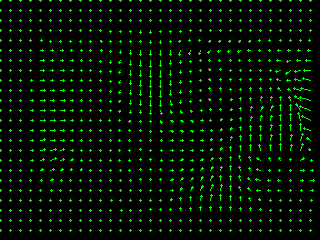
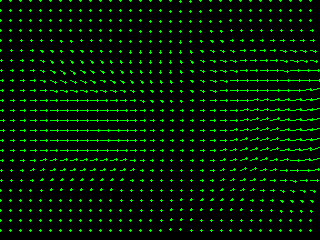
Part 1b complete

diff --git a/experiment.py b/experiment.py
@@ -143,33 +143,40 @@ def part_1b():
     # PART B1
     # =======
 
-    # gaussian_sigma = 5
-    # gaussian_ksize = (9, 9)
+    gaussian_sigma = 5
+    gaussian_ksize = (9, 9)
 
-    # s_shift_0 = cv2.GaussianBlur(shift_0, gaussian_ksize, gaussian_sigma)
-    # s_shift_r10 = cv2.GaussianBlur(shift_r10, gaussian_ksize, gaussian_sigma)
+    s_shift_0 = cv2.GaussianBlur(shift_0, gaussian_ksize, gaussian_sigma)
+    s_shift_r10 = cv2.GaussianBlur(shift_r10, gaussian_ksize, gaussian_sigma)
 
-    # k_size = 85
-    # k_type = 'gaussian'
-    # sigma = 30
-    # u, v = ps4.optic_flow_lk(s_shift_0, s_shift_r10, k_size, k_type, sigma)
+    k_size = 85
+    k_type = 'gaussian'
+    sigma = 30
+    u, v = ps4.optic_flow_lk(s_shift_0, s_shift_r10, k_size, k_type, sigma)
 
-    # u_v = quiver(u, v, scale=3, stride=10)
-    # cv2.imwrite(os.path.join(output_dir, "ps4-1-b-1.png"), u_v)
+    u_v = quiver(u, v, scale=3, stride=10)
+    cv2.imwrite(os.path.join(output_dir, "ps4-1-b-1.png"), u_v)
 
     # =======
     # PART B2
     # =======
 
-    gaussian_sigma = 5
-    gaussian_ksize = (35, 35)
+    gaussian_sigma = 15
+    gaussian_ksize = (27,27)
+    s_shift_0 = np.copy(shift_0)
+    s_shift_r20 = np.copy(shift_r20)
     s_shift_0 = cv2.GaussianBlur(shift_0, gaussian_ksize, gaussian_sigma)
     s_shift_r20 = cv2.GaussianBlur(shift_r20, gaussian_ksize, gaussian_sigma)
 
-    k_size = 55
-    k_type = 'gaussian'
-    sigma = 10
+    k_size = 95
+    k_type = 'uniform'
+    sigma = 0
     u, v = ps4.optic_flow_lk(s_shift_0, s_shift_r20, k_size, k_type, sigma)
+
+    gaussian_sigma = 25
+    gaussian_ksize = (25, 25)
+    u = cv2.GaussianBlur(u, gaussian_ksize, gaussian_sigma)
+    v = cv2.GaussianBlur(v, gaussian_ksize, gaussian_sigma)
 
     u_v = quiver(u, v, scale=1, stride=10)
     cv2.imwrite(os.path.join(output_dir, "ps4-1-b-2.png"), u_v)
@@ -178,19 +185,26 @@ def part_1b():
     # PART B3
     # =======
 
-    # gaussian_sigma = 5
-    # gaussian_ksize = (9, 9)
-    # s_shift_0 = cv2.GaussianBlur(shift_0, gaussian_ksize, gaussian_sigma)
-    # s_shift_r40 = cv2.GaussianBlur(shift_r40, gaussian_ksize, gaussian_sigma)
+    gaussian_sigma = 100
+    gaussian_ksize = (55,55)
+    s_shift_0 = np.copy(shift_0)
+    s_shift_r40 = np.copy(shift_r40)
+    s_shift_0 = cv2.GaussianBlur(shift_0, gaussian_ksize, gaussian_sigma)
+    s_shift_r40 = cv2.GaussianBlur(shift_r40, gaussian_ksize, gaussian_sigma)
 
-    # k_size = 85
-    # k_type = 'gaussian'
-    # sigma = 30
-    # u, v = ps4.optic_flow_lk(s_shift_0, s_shift_r40, k_size, k_type, sigma)
+    k_size = 95
+    k_type = 'uniform'
+    sigma = 50
+    u, v = ps4.optic_flow_lk(s_shift_0, s_shift_r40, k_size, k_type, sigma)
 
-    # # Flow image
-    # u_v = quiver(u, v, scale=3, stride=10)
-    # cv2.imwrite(os.path.join(output_dir, "ps4-1-b-3.png"), u_v)
+    gaussian_sigma = 40
+    gaussian_ksize = (35, 35)
+    u = cv2.GaussianBlur(u, gaussian_ksize, gaussian_sigma)
+    v = cv2.GaussianBlur(v, gaussian_ksize, gaussian_sigma)
+
+    # Flow image
+    u_v = quiver(u, v, scale=0.4, stride=10)
+    cv2.imwrite(os.path.join(output_dir, "ps4-1-b-3.png"), u_v)
 
 
 def part_2():
@@ -371,7 +385,7 @@ def part_6():
 
 
 if __name__ == '__main__':
-    part_1a()
+    # part_1a()
     part_1b()
     # part_2()
     # part_3a_1()

diff --git a/ps4.py b/ps4.py
@@ -138,10 +138,9 @@ def optic_flow_lk(img_a, img_b, k_size, k_type, sigma=1):
     if k_type == '':
         k_type = 'uniform'
 
-    assert k_type in ['uniform', 'gaussian'], "Invlid k_type: '{}'".format(k_type)
-
-
-    shape = img_a.shape
+    # Validate the provided type
+    assert k_type in ['uniform', 'gaussian'], \
+        "Invlid k_type: '{}'".format(k_type)
 
     # Compute the grandients of the image
     Ix = gradient_x(img_a)
@@ -155,12 +154,9 @@ def optic_flow_lk(img_a, img_b, k_size, k_type, sigma=1):
     elif k_type == 'gaussian':
         a_arrays, b_arrays = applyGausian(Ix,Iy, It, ksize, sigma)
 
+    shape = img_a.shape
     a = np.stack(a_arrays, axis=2).reshape(shape[0], shape[1], 2, 2)
     b = np.stack(b_arrays, axis=2)
-
-    # print(a.shape)
-    # a_det = np.linalg.det(b)
-    # print(a_det.shape)
 
     x = np.linalg.solve(a, b)
     u = x[:, :, 0]
@@ -343,23 +339,23 @@ def hierarchical_lk(img_a, img_b, levels, k_size, k_type, sigma, interpolation,
     raise NotImplementedError
 
 # ###################################################################################
-import os
+# import os
 
-# I/O directories
-input_dir = "input_images"
-output_dir = "./"
+# # I/O directories
+# input_dir = "input_images"
+# output_dir = "./"
 
 
-if __name__ == '__main__':
-    shift_0 = cv2.imread(os.path.join(input_dir, 'TestSeq',
-                                      'Shift0.png'), 0) / 255.
-    shift_r2 = cv2.imread(os.path.join(input_dir, 'TestSeq',
-                                       'ShiftR2.png'), 0) / 255.
-    shift_r5_u5 = cv2.imread(os.path.join(input_dir, 'TestSeq',
-                                          'ShiftR5U5.png'), 0) / 255.
+# if __name__ == '__main__':
+#     shift_0 = cv2.imread(os.path.join(input_dir, 'TestSeq',
+#                                       'Shift0.png'), 0) / 255.
+#     shift_r2 = cv2.imread(os.path.join(input_dir, 'TestSeq',
+#                                        'ShiftR2.png'), 0) / 255.
+#     shift_r5_u5 = cv2.imread(os.path.join(input_dir, 'TestSeq',
+#                                           'ShiftR5U5.png'), 0) / 255.
 
-    # Optional: smooth the images if LK doesn't work well on raw images
-    k_size = 3  # TODO: Select a kernel size
-    k_type = ''  # TODO: Select a kernel type
-    sigma = 0  # TODO: Select a sigma value if you are using a gaussian kernel
-    u, v = optic_flow_lk(shift_0, shift_r2, k_size, k_type, sigma)
+#     # Optional: smooth the images if LK doesn't work well on raw images
+#     k_size = 3  # TODO: Select a kernel size
+#     k_type = ''  # TODO: Select a kernel type
+#     sigma = 0  # TODO: Select a sigma value if you are using a gaussian kernel
+#     u, v = optic_flow_lk(shift_0, shift_r2, k_size, k_type, sigma)
